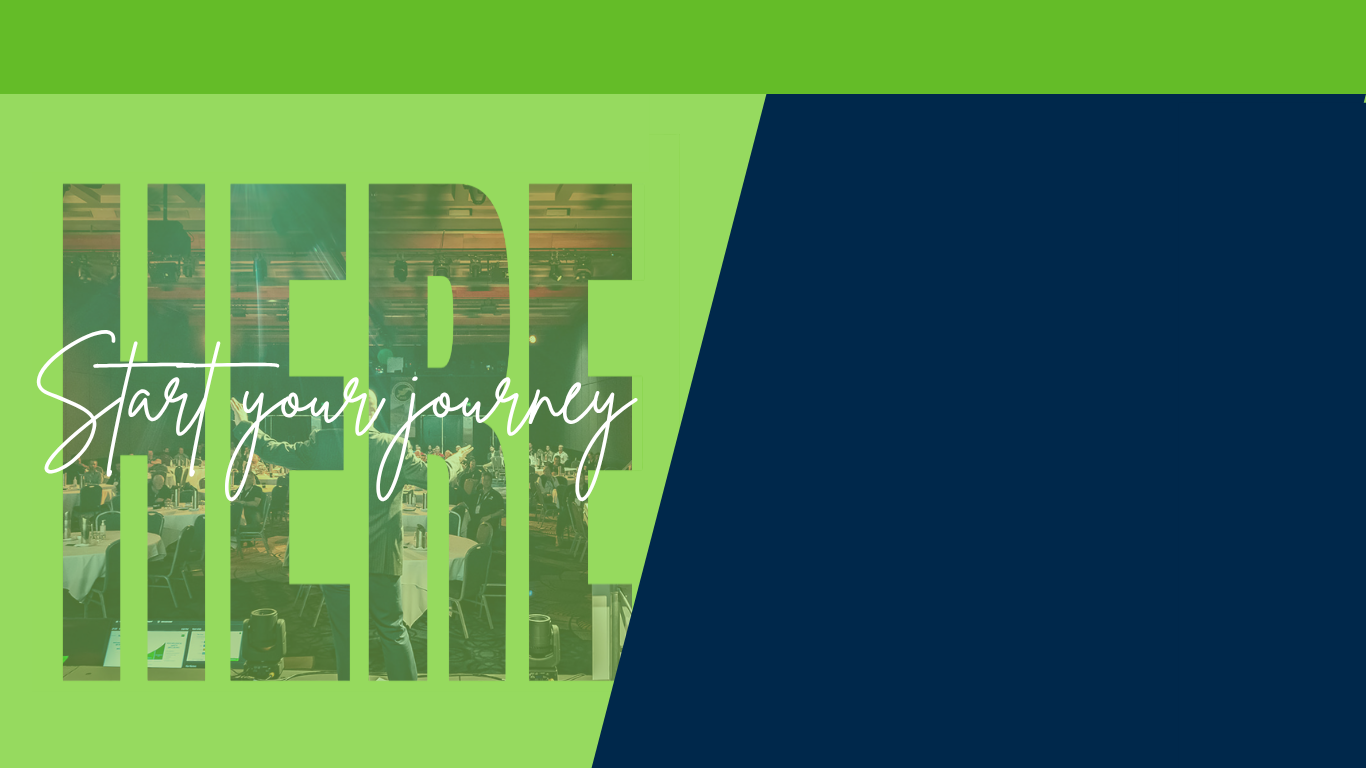
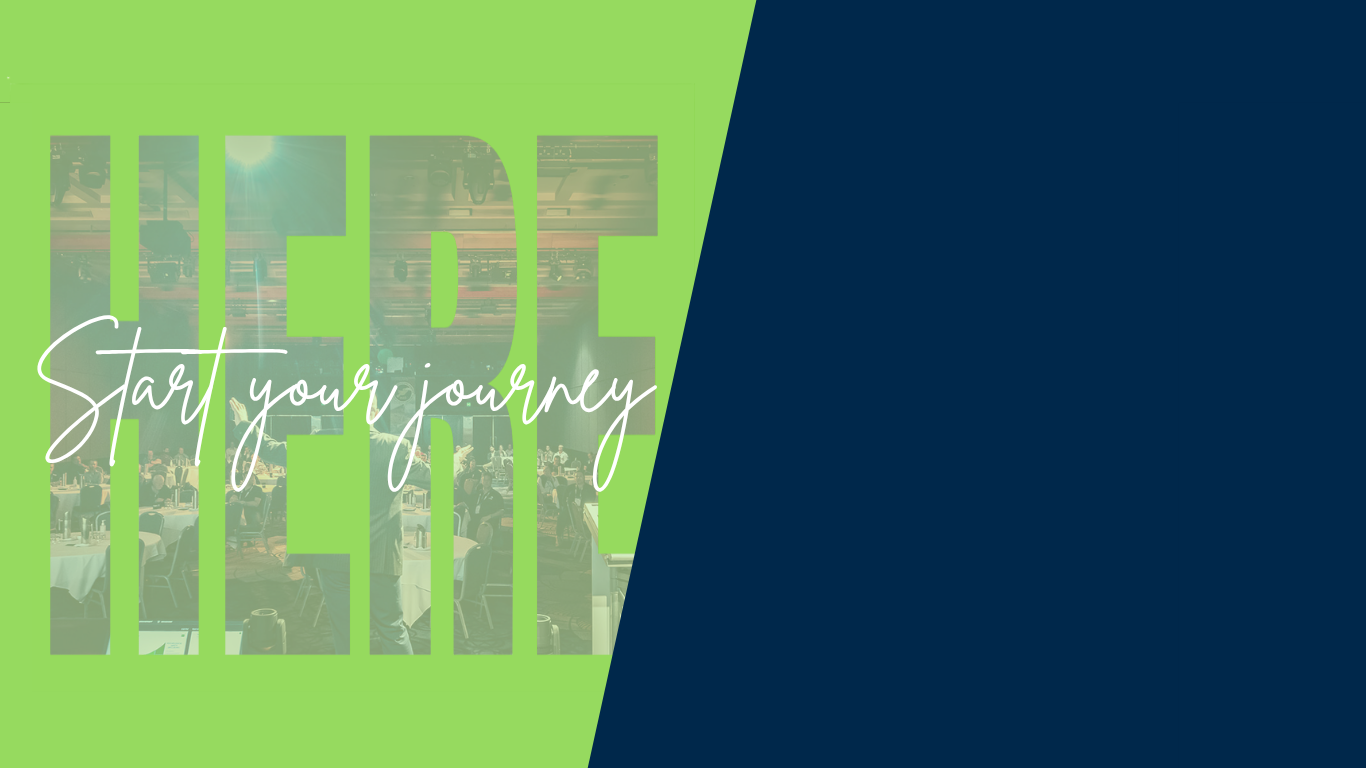
fixing database and frontend framework

diff --git a/frontend/static/style/main.css b/frontend/static/style/main.css
@@ -212,6 +212,15 @@ p {
   height: 36px;
 }
 
+.anton-logo {
+    width: 180px;
+    height: 100px;
+    position: absolute;
+    left: 50%;
+    top: -0.25%;
+    transform: translateX(-50%);
+}
+
 .navbar-brand {
   color: white;
 }
@@ -319,7 +328,17 @@ html, body {
 .login {
     display: flex;
     height: 100vh;
-    padding-top: 80px;
+    padding-top: 10px;
+    background-image: url('../img/login-signup page.png');
+    background-size: cover;
+    background-position: center;
+    background-repeat: no-repeat;
+}
+
+.adminLogin {
+    display: flex;
+    height: 100vh;
+    padding-top: 10px;
     background-image: url('../img/login-signup page.png');
     background-size: cover;
     background-position: center;
@@ -393,11 +412,60 @@ html, body {
 
 /* Top Right Logo */
 .social-icons {
+    display: flex;
+    gap: 12px;
+    align-items: center;
+    justify-content: center;
     position: absolute;
-    top: -8px;
-    right: 24px;
-    width: 220px;
-    height: auto;
+    right: 20px;
+    top: 15px;
+}
+
+.social-icons a img {
+    height: 40px;
+    width: 40px;
+}
+
+.adminlogin-btn {
+    position: absolute;
+    top: 750px;
+    left: 1272px;
+    font-family: 'Conthrax', sans-serif;
+    font-size: 13px;
+    font-weight: 600;
+    letter-spacing: 3px;
+    text-transform: uppercase;
+    color: #ffffff;
+    text-decoration: none;
+    z-index: 10;
+}
+
+/* login button - return to startup */
+.return-btn {
+    position: absolute;
+    top: 700px;
+    left: 1325px;
+    font-family: 'Conthrax', sans-serif;
+    font-size: 13px;
+    font-weight: 600;
+    letter-spacing: 3px;
+    text-transform: uppercase;
+    color: #ffffff;
+    text-decoration: none;
+    z-index: 10;
+}
+
+.return-btn-signup {
+    position: absolute;
+    top: 830px;
+    left: 1325px;
+    font-family: 'Conthrax', sans-serif;
+    font-size: 13px;
+    font-weight: 600;
+    letter-spacing: 3px;
+    text-transform: uppercase;
+    color: #ffffff;
+    text-decoration: none;
     z-index: 10;
 }
 
@@ -424,17 +492,17 @@ html, body {
 
 .login-form {
     position: absolute;
-    top: 400px;
+    top: 450px;
     left: 1180px;
-    transform; translateY(-50%);
+    transform: translateY(-50%);
     width: 380px;
 }
 
 .sign-up-form {
     position: absolute;
-    top: 190px;
+    top: 500px;
     left: 1180px;
-    transform; translateY(-50%);
+    transform: translateY(-50%);
     width: 380px;
 }
 
@@ -531,8 +599,8 @@ html, body {
 
 .signup-link {
     text-align: center;
-    margin-top: 690px;
-    margin-left: 1230px;
+    margin-top: 10px;
+    margin-left: 0px;
     font-size: 13px;
     color: rgba(255, 255, 255, 0.7);
     font-family: 'Conthrax', sans-serif;

diff --git a/frontend/login.html b/frontend/login.html
@@ -12,6 +12,7 @@
 
 <header class="navbar-dark px-4 custom-navbar-new">
     <img src="static/img/TGG-logo.png" alt="TGG Logo" class="navbar-logo-new" />
+    <img src="static/img/anton-guinea-logo-img.png" alt="Anton Guinea Logo" class="anton-logo"/>
     <span class="brand-title-new">Leadership Compass</span>
     <div class="social-icons">
         <a href="https://www.facebook.com/theguineagrouptgg/" target="_blank">
@@ -57,11 +58,13 @@
 
         <button type="button" class="btn-login" onclick="handleLogin()">Sign In</button>
         <p id="loginMessage"></p>
+
+        <! -- ALREADY HAVE AN ACCOUNT -->
+        <p class="signup-link">Don't have an account? <a href="sign-up.html">Sign Up</a></p>
     </form>
-    <! -- ALREADY HAVE AN ACCOUNT -->
-    <p class="signup-link">Don't have an account? <a href="sign-up.html">Sign Up</a></p>
+
 </div>
 
-<script src="static/js/auth-test.js"></script>
+<script src="static/js/auth.js"></script>
 </body>
 </html>

diff --git a/frontend/static/style/startup.css b/frontend/static/style/startup.css
@@ -1,0 +1,33 @@
+: root {
+    --brand-dark: #00284B;
+    --brand-green: #64BC28;
+    --brand-light-green: #96DA5F;
+}
+
+.custom-navbar-new {
+    background: linear-gradient(90deg, var(--brand-dark), var(--brand-green));
+    border-bottom: 4px solid var(--brand-light-green);
+    padding: -0.4px 40px;
+    display: flex;
+    align-items: center;
+    height: 70px;
+    overflow: visible;
+}
+
+.navbar-logo-new {
+    height: 38px;
+    width: auto;
+    object-fit: contain;
+}
+
+.brand-title-new {
+    font-family: 'Montserrat', sans-serif;
+    font-weight: 1000;
+    font-size: 1.1rem;
+    color: #e5e8e8;
+    letter-spacing: 0.04em;
+    text-transform: uppercase;
+    white-space: nowrap;
+    margin-left: 12px;
+}
+

diff --git a/frontend/sign-up.html b/frontend/sign-up.html
@@ -12,6 +12,7 @@
 
 <header class="navbar-dark px-4 custom-navbar-new">
     <img src="static/img/TGG-logo.png" alt="TGG Logo" class="navbar-logo-new" />
+    <img src="static/img/anton-guinea-logo-img.png" alt="Anton Guinea Logo" class="anton-logo"/>
     <span class="brand-title-new">Leadership Compass</span>
     <div class="social-icons">
         <a href="https://www.facebook.com/theguineagrouptgg/" target="_blank">
@@ -78,7 +79,7 @@
 
     <! -- ALREADY HAVE AN ACCOUNT -->
     <p class="login-link">Already have an account? <a href="login.html">Sign In</a></p>
-    <script src="static/js/auth-test.js"></script>
+    <script src="static/js/auth.js"></script>
 </div>
 </body>
 </html>

diff --git a/backend/src/main/java/com/example/leadershipcompass_capstoneprojectbackend/LeadershipCompassCapstoneProjectBackendApplication.java b/backend/src/main/java/com/example/leadershipcompass_capstoneprojectbackend/LeadershipCompassCapstoneProjectBackendApplication.java
@@ -4,7 +4,7 @@ import org.springframework.boot.SpringApplication;
 import org.springframework.boot.autoconfigure.SpringBootApplication;
 
 @SpringBootApplication
-public class LeadershipCompassCapstoneProjectBackendApplication {
+public class postLeadershipCompassCapstoneProjectBackendApplication {
 
     public static void main(String[] args) {
         SpringApplication.run(LeadershipCompassCapstoneProjectBackendApplication.class, args);
